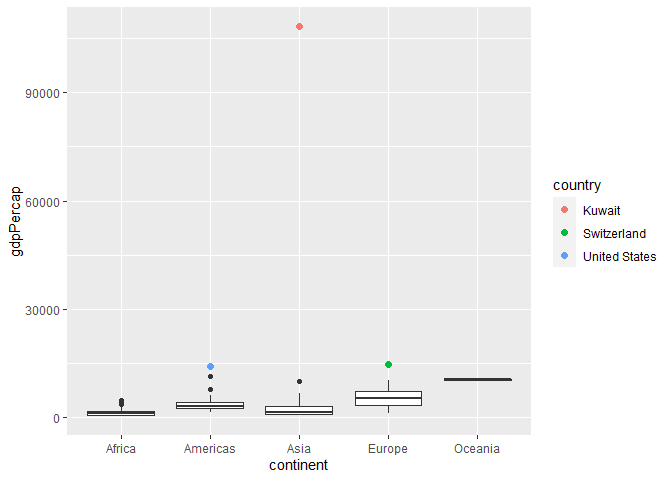
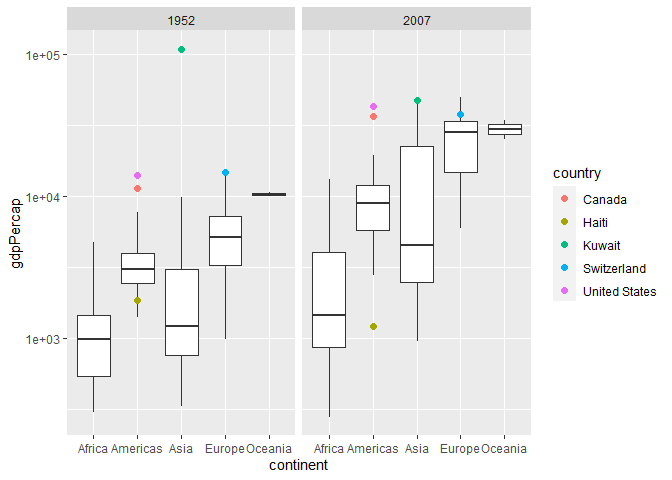
Update challenge 4.

diff --git a/challenges/c04-gapminder-assignment.md b/challenges/c04-gapminder-assignment.md
@@ -210,18 +210,19 @@ gapminder %>%
 gapminder %>%
   filter(year == year_min) %>%
   ggplot(aes(continent, gdpPercap)) +
-  geom_boxplot()
+  geom_boxplot() +
+  scale_y_log10()
 ```
 
 ![](c04-gapminder-assignment_files/figure-gfm/q2-task-2.png)<!-- -->
 
 **Observations**:
 
-- Write your observations here Asia and Europe has the highest GDP per
-  cap out of all the continents followed by America, Africa, and
-  Oceania. There are a few outliers in the Americas, Asia, and Europe.
-  There is one significant outlier in Asia that is greatly larger than
-  any other country.
+- Write your observations here Oceania has the highest median GDP per
+  cap, followed by Europe, Americas, Asia, and Africa. However, there
+  are individual countries in Europe, Asia, and the Americas who have
+  higher GDP per cap. Specifically, there is one country in Asia whose
+  GDP per cap is significantly higher than any other country.
 
 **Difficulties & Approaches**:
 
@@ -277,23 +278,23 @@ gapminder %>%
 
 ``` r
 gapminder %>%
-  filter(year == year_min & continent == "Americas") %>%
+  filter(year == year_max & continent == "Americas") %>%
   arrange(desc(gdpPercap))
 ```
 
     ## # A tibble: 25 × 6
-    ##    country       continent  year lifeExp       pop gdpPercap
-    ##    <fct>         <fct>     <int>   <dbl>     <int>     <dbl>
-    ##  1 United States Americas   1952    68.4 157553000    13990.
-    ##  2 Canada        Americas   1952    68.8  14785584    11367.
-    ##  3 Venezuela     Americas   1952    55.1   5439568     7690.
-    ##  4 Argentina     Americas   1952    62.5  17876956     5911.
-    ##  5 Uruguay       Americas   1952    66.1   2252965     5717.
-    ##  6 Cuba          Americas   1952    59.4   6007797     5587.
-    ##  7 Chile         Americas   1952    54.7   6377619     3940.
-    ##  8 Peru          Americas   1952    43.9   8025700     3759.
-    ##  9 Ecuador       Americas   1952    48.4   3548753     3522.
-    ## 10 Mexico        Americas   1952    50.8  30144317     3478.
+    ##    country             continent  year lifeExp       pop gdpPercap
+    ##    <fct>               <fct>     <int>   <dbl>     <int>     <dbl>
+    ##  1 United States       Americas   2007    78.2 301139947    42952.
+    ##  2 Canada              Americas   2007    80.7  33390141    36319.
+    ##  3 Puerto Rico         Americas   2007    78.7   3942491    19329.
+    ##  4 Trinidad and Tobago Americas   2007    69.8   1056608    18009.
+    ##  5 Chile               Americas   2007    78.6  16284741    13172.
+    ##  6 Argentina           Americas   2007    75.3  40301927    12779.
+    ##  7 Mexico              Americas   2007    76.2 108700891    11978.
+    ##  8 Venezuela           Americas   2007    73.7  26084662    11416.
+    ##  9 Uruguay             Americas   2007    76.4   3447496    10611.
+    ## 10 Panama              Americas   2007    75.5   3242173     9809.
     ## # … with 15 more rows
 
 **Observations**:
@@ -311,11 +312,10 @@ label:
 ``` r
 ## NOTE: No need to edit, use ideas from this in q4 below
 gapminder %>%
-  filter(year == max(year)) %>%
-
+  filter(year == year_max) %>%
   ggplot(aes(continent, lifeExp)) +
   geom_boxplot() +
-  geom_point(
+    geom_point(
     data = . %>% filter(country %in% c("United Kingdom", "Japan", "Zambia")),
     mapping = aes(color = country),
     size = 2
@@ -332,41 +332,29 @@ variables; think about using different aesthetics or facets.
 ``` r
 ## TASK: Create a visual of gdpPercap vs continent
 gapminder %>%
-  filter(year == year_min) %>%
+  filter(year == year_min | year == year_max) %>%
   ggplot(aes(continent, gdpPercap)) +
   geom_boxplot() +
   geom_point(
-    data = . %>% filter(country %in% c("Switzerland", "United States", "Kuwait")),
+    data = . %>% filter(country %in% c("Switzerland", "United States", "Kuwait", "Canada", "Haiti")),
     mapping = aes(color = country),
-    size = 2
-  )
+    size = 2) +
+  facet_grid(~year) +
+  scale_y_log10()
 ```
 
 ![](c04-gapminder-assignment_files/figure-gfm/q4-task-1.png)<!-- -->
 
-``` r
-gapminder %>%
-  filter(year == year_max) %>%
-  ggplot(aes(continent, gdpPercap)) +
-  geom_boxplot() +
-  geom_point(
-    data = . %>% filter(country %in% c("Switzerland", "United States", "Kuwait", "Ireland")),
-    mapping = aes(color = country),
-    size = 2
-  )
-```
-
-![](c04-gapminder-assignment_files/figure-gfm/q4-task-2.png)<!-- -->
-
 **Observations**:
 
-- Write your observations here In 1952, the top 3 outliers were the
-  United States, Switzerland, and Kuwait. Kuwait’s gdp is significantly
-  higher than other other country by almost 90000 gdp per cap. In 2007,
-  Kuwait and the United States remain as the highest gdp per cap in
-  their respective countries. However, Kuwait’s gdp has dropped
-  significantly. Switzerland’s gdp has increased but no longer has the
-  highest gdp.
+- Write your observations here In 1952, the top 4 outliers were the
+  United States, Canada, Switzerland, and Kuwait. Kuwait’s gdp per cap
+  was significantly higher than any other country. The gdp per cap for
+  the other outlier countries are closer in value. In contrast, in 2007,
+  Kuwait’s gdp per cap dropped significantly. Switzerland, Canada, and
+  the United States has increased in gdp per cap and has caught up with
+  Kuwait. Haiti appears to be a new outlier in the Americas in 2007 that
+  was not present in 1952.
 
 # Your Own EDA
 
@@ -393,11 +381,12 @@ gapminder %>%
 - (Your notes and observations here) Q: Does a larger gdp per capita
   lead to a longer life expectancy in 2007?
 
-Observations: There seems to be a positive correlation between the gdp
-per cap and the life expectancy. A clear upward trend can be seen in
-America, Europe, and Asia. However, the gdp per cap does not effect the
-life expectancy in Africa, suggesting there may be a confounding
-variable we don’t see yet.
+Observations: The plots for the Americas, Asia, and Europe all look
+quite flat with a slight upward trend, suggesting there is not a strong
+correlation between life expectancy and gdp per cap. The trendline for
+Africa almost appears vertical suggesting there is not correlation at
+all. Based on these graphs, it appears there is only a very slight
+positive correlation between life expectancy and gdp per cap, if any.
 
 ``` r
 ## TASK: Your second graph
@@ -440,7 +429,7 @@ gapminder_norm %>%
 - (Your notes and observations here) Q: Is there a correlation between
   the population of a country and the gdp per cap? Looking at the
   normalized population and gdp per cap for a few countries, there seems
-  to be a positive correlation between the population and gdp per cap.
-  Although an increase in population increases the gdp per cap, there
-  seems to be other factors that involved that is causing different the
-  different slopes in each country.
+  to be a positive correlation between the population and gdp per cap,
+  which might be suggestive of a causal relationship. The slope of this
+  correlation varies greatly depending on the country, which suggests
+  there may be other factors to better explain a country’s gdp per cap.
